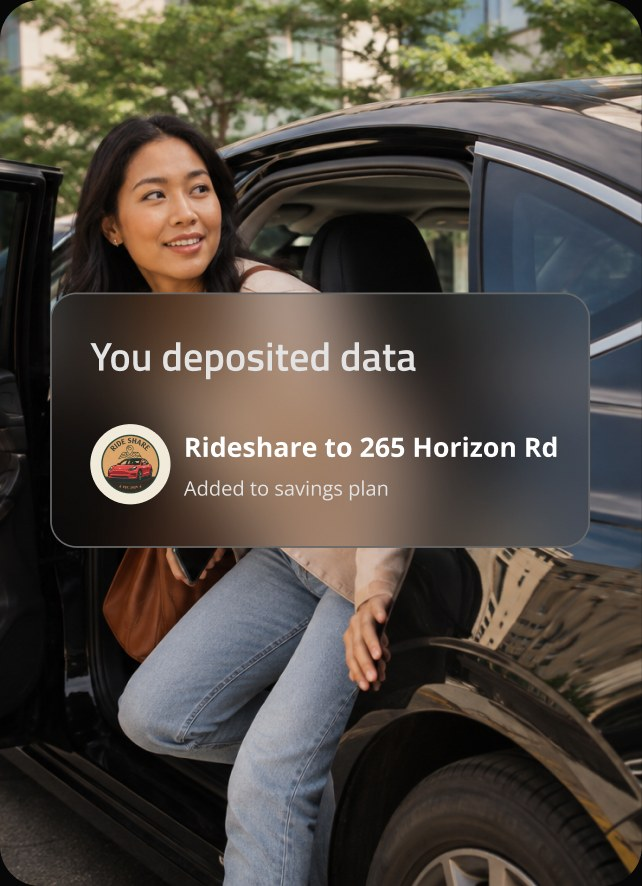
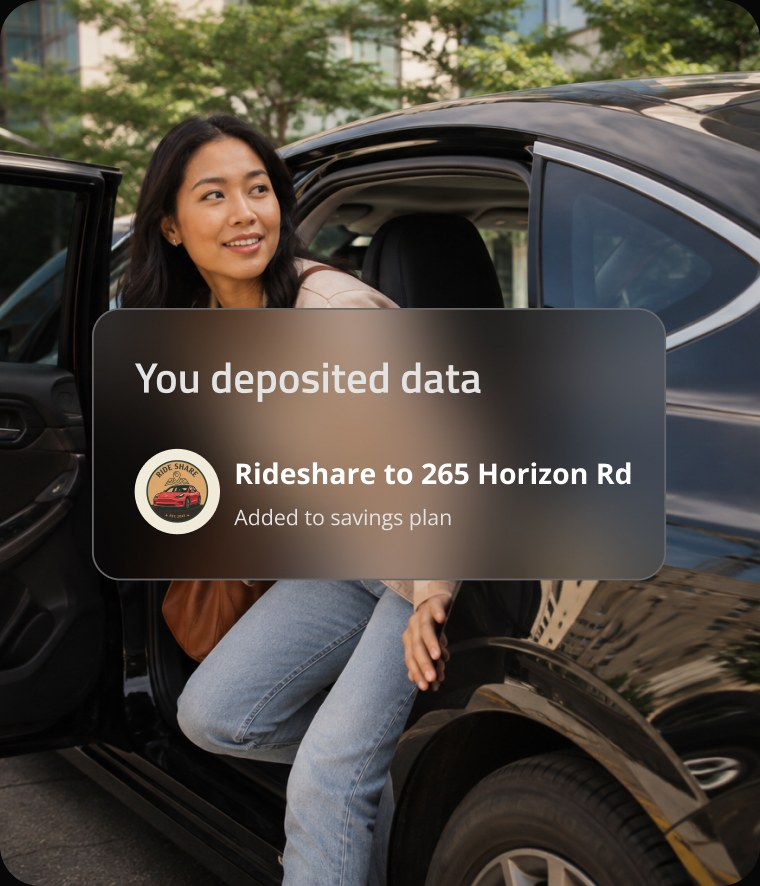
Nav at 1200x84, the ten-question FAQ, and four equal how-it-works cards
Nav, from Figma 3157-67646: 1200x84, padded 16 all round but 24 on the left
where the logo sits, a solid #8b8b8b hairline rather than a faded one, and the
two dividers given their own colours — the logo's is #999 at .4, the one
before the buttons white at .3. Its wordmark reads "DrumWave" as set type;
the design's vector logotype spells "dWallet.", so that frame is deliberately
diverged from. Also fixes a clipped CTA on phones: the nav's content is wider
than 94vw at 375px, so the label was cut mid-word. Predates this change.

FAQ, from Figma 3340-73781: ten questions with their answers, replacing five.
Only three carried over. The row that read "Is a Data Savings Account a bank
account?" was answering a different question — its copy describes a dWallet,
which is what the new design attaches it to.

The accordion works now. That was left undone last time because the shut rows
had no copy, so a working "+" would have opened onto nothing. Click or
Enter/Space toggles, rows open independently as the design shows them, and
aria-expanded tracks. Answers run to one, two or three paragraphs.

Cards, from Figma 3265-80136: all four are 380 wide with even 52.667 gaps, so
last round's odd-one-out is gone — and with it the negative margin, the width
override, the separate copy width and the resets in two media queries. Cards
1-3 re-exported at the new width rather than being stretched from 320.

diff --git a/index.html b/index.html
@@ -63,24 +63,26 @@ button{font:inherit;color:inherit;background:none;border:0;cursor:pointer}
    10px blur, 1px hairline at 30% grey. Type is Titillium 18 throughout. */
 .nav{
   position:fixed;top:12px;left:50%;transform:translateX(-50%);z-index:50;
-  width:min(1058px,94vw);height:70px;padding:10px 24px;
+  /* Figma 3157-67646: 1200 x 84, padded 16 all round but 24 on the left where the
+     logo sits, and a solid #8b8b8b hairline rather than a faded one */
+  width:min(1200px,94vw);height:84px;padding:16px 16px 16px 24px;
   display:flex;align-items:center;gap:40px;
-  border:1px solid rgba(139,139,139,.3);border-radius:100px;
+  border:1px solid #8B8B8B;border-radius:100px;
   background:rgba(7,7,7,.7);backdrop-filter:blur(10px);-webkit-backdrop-filter:blur(10px);
   font-family:'Titillium Web',system-ui,sans-serif;font-size:18px;line-height:1;
 }
 .nav .logo{display:flex;align-items:center;gap:24px;margin-right:auto}
 .nav .logo .mark{width:36px;height:36px;display:block;object-fit:contain;flex:none}
-.nav .logo .rule{width:1px;height:35px;background:rgba(243,242,238,.3);flex:none}
-.nav .logo b{font-weight:600;font-size:32px;letter-spacing:-.01em}
+.nav .logo .rule{width:1px;height:35px;background:rgba(153,153,153,.4);flex:none}
+.nav .logo .wordmark{font-weight:600;font-size:32px;letter-spacing:-.01em;color:#fff;flex:none}
 .nav .links{display:flex;align-items:center;gap:40px}
 .nav .links a{font-weight:400;color:#fff}
 .nav .links a.cur{font-weight:600}
-.nav .sep{width:1px;height:40.5px;background:rgba(243,242,238,.3);flex:none}
+.nav .sep{width:1px;height:40.5px;background:rgba(255,255,255,.3);flex:none}
 .nav .ctas{display:flex;align-items:center;gap:14px}
 .nav .pill{
   display:inline-flex;align-items:center;justify-content:center;white-space:nowrap;
-  padding:12px 24px;border-radius:500px;border:1px solid #fff;
+  padding:12px 24px;border-radius:500px;border:.911px solid #fff;
   font-weight:400;line-height:24px;color:#fff;transition:background .25s,filter .25s;
 }
 .nav .pill:hover{background:rgba(243,242,238,.12)}
@@ -88,11 +90,11 @@ button{font:inherit;color:inherit;background:none;border:0;cursor:pointer}
 .nav .pill.p{border:1px solid transparent;border-radius:56px;font-weight:600;background:linear-gradient(138.73deg,#4B27FF 1.94%,#0091FF 100.59%)}
 .nav .pill.p:hover{background:linear-gradient(138.73deg,#4B27FF 1.94%,#0091FF 100.59%);filter:brightness(1.12)}
 @media (max-width:900px){
-  .nav{gap:20px;height:56px;padding:8px 16px}
+  .nav{gap:20px;height:64px;padding:8px 12px 8px 16px}
   .nav .links,.nav .sep{display:none}
   .nav .logo{gap:14px}
   .nav .logo .rule{height:28px}
-  .nav .logo b{font-size:22px}
+  .nav .logo .wordmark{font-size:22px}
   .nav .pill{padding:10px 16px;font-size:15px}
   .nav .pill:not(.p){display:none}
 }
@@ -256,19 +258,13 @@ button{font:inherit;color:inherit;background:none;border:0;cursor:pointer}
    The cards are flat exports on purpose: three of the four are single flattened
    images in the design, so their photo crops and panel placement can't be had as
    layers. Taking all four the same way keeps them consistent with each other. */
-.how-steps{position:relative;z-index:2;display:grid;grid-template-columns:repeat(4,1fr);gap:5.518vw;padding:4.581vw 6.247vw 0}
+.how-steps{position:relative;z-index:2;display:grid;grid-template-columns:repeat(4,1fr);gap:2.742vw;padding:4.581vw 6.247vw 0}
 .step{position:relative}
-.step-card{position:relative;width:94.19%;aspect-ratio:320.24/442;overflow:hidden;border-radius:6.25%/4.53%}
-/* Figma 3265-80232: the last card is wider than the other three — 380 against their
-   320 — and it grows leftward into the gap, so its right edge stays on the same 1678
-   measure the row is built on. Its copy shifts with it and keeps the 340 column. */
-.how-steps .step:last-child{margin-left:-2.082vw}
-.how-steps .step:last-child .step-card{width:19.781vw;aspect-ratio:380/442;border-radius:5.27%/4.53%}
-/* the wider card makes its 1fr track grow with it; the copy stays on the 340 column
-   the design keeps it on, so it sits in from the card's right edge */
-.how-steps .step:last-child .step-copy{width:17.699vw}
+/* Figma 3265-80136: four equal 380-wide cards with 52.667 gaps on a 1678 measure.
+   The copy stays on a 340 column, so it sits in from each card's right edge. */
+.step-card{position:relative;width:100%;aspect-ratio:380/442;overflow:hidden;border-radius:5.27%/4.53%}
 .step-card img{display:block;width:100%;height:100%;object-fit:cover}
-.step-copy{margin-top:1.458vw;display:flex;flex-direction:column;gap:.625vw}
+.step-copy{margin-top:1.458vw;display:flex;flex-direction:column;gap:.625vw;width:17.699vw;max-width:100%}
 .step-eyebrow{font-family:'Titillium Web',sans-serif;font-weight:600;font-size:clamp(.65rem,.833vw,1rem);letter-spacing:.1em;line-height:1.1;color:#278EFF;text-transform:uppercase}
 .step-h{font-family:'Titillium Web',sans-serif;font-weight:600;font-size:clamp(1rem,1.249vw,1.5rem);letter-spacing:-.03em;line-height:1.1;color:#fff}
 .step-body{font-family:'Open Sans',sans-serif;font-weight:400;font-size:clamp(.75rem,.729vw,.875rem);line-height:1.4;color:#999}
@@ -293,6 +289,12 @@ button{font:inherit;color:inherit;background:none;border:0;cursor:pointer}
 .faq-row.open .faq-q{color:#fff}
 .faq-row .faq-a{display:none;margin-top:16px;font-family:'Open Sans',sans-serif;font-weight:400;font-size:clamp(.8rem,.729vw,.875rem);line-height:1.4;color:#999}
 .faq-row.open .faq-a{display:block}
+/* several answers run to two or three paragraphs; the design separates them with a
+   blank line, which is a margin here rather than an empty paragraph */
+.faq-row .faq-a p{margin:0 0 1.4em}
+.faq-row .faq-a p:last-child{margin-bottom:0}
+.faq-row{cursor:pointer}
+.faq-row:focus-visible{outline:2px solid #278EFF;outline-offset:3px}
 
 /* Figma 3157-69704: the disclosures block — text at x164 on a 1464 measure, 18px
    at #666, with a rule above it the full width of the footer's columns */
@@ -324,10 +326,7 @@ button{font:inherit;color:inherit;background:none;border:0;cursor:pointer}
 
 @media (max-width:980px){
   .how-steps{grid-template-columns:repeat(2,1fr);gap:4vw}
-  /* stacked, an odd card out would just look ragged */
-  .how-steps .step:last-child{margin-left:0}
-  .how-steps .step:last-child .step-card{width:94.19%;aspect-ratio:320.24/442;border-radius:6.25%/4.53%}
-  .how-steps .step:last-child .step-copy{width:auto}
+  .step-copy{width:auto}
   .how-title{padding-left:4.25vw}
   .faq{flex-direction:column;gap:40px}
   .faq-list{width:100%}
@@ -336,7 +335,7 @@ button{font:inherit;color:inherit;background:none;border:0;cursor:pointer}
 @media (max-width:760px){
   .how-steps{grid-template-columns:1fr;gap:8vw;padding:8vw 8vw 0}
   .how-title{padding-left:8.5vw}
-  .step-card,.how-steps .step:last-child .step-card{width:100%}
+  .step-card{width:100%}
   .step-eyebrow{font-size:.8rem}
   .step-h{font-size:1.35rem}
   .step-body{font-size:.9rem}
@@ -361,6 +360,12 @@ button{font:inherit;color:inherit;background:none;border:0;cursor:pointer}
   .solution-preview .sol-link{left:8vw;top:auto;bottom:17vh;transform:none}
   .solution-preview .sol-card{right:auto;left:8vw;top:auto;bottom:30vh;width:84vw}
 }
+/* On a phone the nav's own content is wider than 94vw — logo, rule, wordmark and a
+   CTA whose label runs to 25 characters — so the CTA's text was being clipped. The
+   logo disc carries the brand on its own down here. */
+@media (max-width:440px){
+  .nav .logo .rule,.nav .logo .wordmark{display:none}
+}
 @media (prefers-reduced-motion:reduce){
   .marker i.pulse{animation:none}
 }
@@ -372,7 +377,7 @@ button{font:inherit;color:inherit;background:none;border:0;cursor:pointer}
   <a class="logo" href="#">
     <img class="mark" src="assets/img/logo.png" alt="" width="36" height="36">
     <span class="rule" aria-hidden="true"></span>
-    <b>dWallet.</b>
+    <b class="wordmark">DrumWave</b>
   </a>
   <nav class="links"><a class="cur" href="#">Personal</a><a href="#">Business</a></nav>
   <span class="sep" aria-hidden="true"></span>
@@ -587,16 +592,94 @@ button{font:inherit;color:inherit;background:none;border:0;cursor:pointer}
       <h2 class="faq-title">Questions? We&rsquo;ve got answers.</h2>
     </div>
     <div class="faq-list">
-      <div class="faq-row open">
+        <div class="faq-row open">
         <div class="faq-text">
-          <p class="faq-q">Is a Data Savings Account a bank account?</p>
-          <p class="faq-a">A dWallet is a data wallet to help you manage the value of your data. It lets you own, save, exchange, invest, and benefit from the value of the data you generate every day. With a dWallet, you can request your data from the companies you interact with, apply for a Data Savings Plan, and use it for personal, professional, and financial reasons, all with a secure way to keep it protected and under your control.</p>
+          <p class="faq-q">What is dWallet?</p>
+          <div class="faq-a">
+          <p>A dWallet is a data wallet to help you manage the value of your data. It lets you own, save, exchange, invest, and benefit from the value of the data you generate every day. With a dWallet, you can request your data from the companies you interact with, apply for a Data Savings Plan, and use it for personal, professional, and financial reasons, all with a secure way to keep it protected and under your control.</p>
+          </div>
         </div><i>&minus;</i>
       </div>
-      <div class="faq-row"><div class="faq-text"><p class="faq-q">What is a Data Savings Plan?</p></div><i>+</i></div>
-      <div class="faq-row"><div class="faq-text"><p class="faq-q">How much is my data worth?</p></div><i>+</i></div>
-      <div class="faq-row"><div class="faq-text"><p class="faq-q">Why would a company pay for something it currently gets free?</p></div><i>+</i></div>
-      <div class="faq-row"><div class="faq-text"><p class="faq-q">Is my data safe with dWallet?</p></div><i>+</i></div>
+      <div class="faq-row">
+        <div class="faq-text">
+          <p class="faq-q">Why do I need a dWallet?</p>
+          <div class="faq-a">
+          <p>The economy is becoming a data economy. Your dWallet gives you a place in it. Think about your money. You keep it in an account you control. You can save, move, invest, spend, or use your money to benefit yourself, your family, and the world around you. Your data should work the same way.</p>
+          <p>Today, your data lives across the cloud, where companies control it and benefit from its value. A dWallet changes that. It puts the data you generate every day back in your hands, so you can own, save, control, and benefit from its value. Your money has a wallet. Now your data does too.</p>
+          </div>
+        </div><i>+</i>
+      </div>
+      <div class="faq-row">
+        <div class="faq-text">
+          <p class="faq-q">What is a data transaction?</p>
+          <div class="faq-a">
+          <p>A data transaction happens whenever you move or put the value of your data to work from your dWallet, just like a money transaction from your bank account.</p>
+          <p>Data transactions use Data Certificates, secure digital records that represent your rights to specific data and allow your dWallet to transact with it.</p>
+          <p>When you wire, withdraw, or pay with money, you make a money transaction. When you request your data from a company and receive a Data Certificate in your wallet, save it in a Data Savings Plan, exchange it, or invest it, you make a data transaction.</p>
+          </div>
+        </div><i>+</i>
+      </div>
+      <div class="faq-row">
+        <div class="faq-text">
+          <p class="faq-q">Who is in control of a data transaction?</p>
+          <div class="faq-a">
+          <p>You are. Your dWallet is non-custodial, which means you start every data transaction. Nothing moves in or out of your wallet without your authorization. Your data never leaves the ecosystem. You decide when and how to license your data, while your dWallet keeps it protected and under your control.</p>
+          </div>
+        </div><i>+</i>
+      </div>
+      <div class="faq-row">
+        <div class="faq-text">
+          <p class="faq-q">What is a Data Savings Plan?</p>
+          <div class="faq-a">
+          <p>A Data Savings Plan (DSP) is a data-backed financial instrument that builds data wealth, as traditional savings plans build wealth from money. With a DSP the data you generate and contribute is owned by you, and you can save, and benefit from the value it generates.</p>
+          <p>The plan defines how data contributions are governed, how they may be used, and how value generated from them is tracked and allocated. Data is treated as an asset that can be saved and managed within a defined financial and governance structure. And in the DSP you set and control preferences so the plan operates under terms you define.</p>
+          </div>
+        </div><i>+</i>
+      </div>
+      <div class="faq-row">
+        <div class="faq-text">
+          <p class="faq-q">How does a Data Savings Plan generate value?</p>
+          <div class="faq-a">
+          <p>A Data Savings Plan (DSP) generates value by allocating your data contributions into monetization use cases, and companies pay to license data. Nothing is allocated without your approval. The value of your data has the potential to grow over time, so the more data you contribute and the earlier you start, the more value you will have.</p>
+          <p>In your DSP, you set up an exit payment account, and the accumulated cash value can be transferred to that account. Alternatively, the DSP can be integrated with other solutions that align with your financial goals, such as investing in education, retirement, or paying down your loans.</p>
+          </div>
+        </div><i>+</i>
+      </div>
+      <div class="faq-row">
+        <div class="faq-text">
+          <p class="faq-q">How much is my data worth?</p>
+          <div class="faq-a">
+          <p>Your data has value. Companies already make money from it, but today, you don&rsquo;t get a share. Data Savings is designed so that a portion of the value your data generates comes back to you.</p>
+          <p>What you can earn depends on owning and saving your data: what you choose to contribute and what you are open to licensing. Value builds from the moment you start saving, so if you have zero data saved, your data is worth zero. Over time, your contributions increase and so does the number of use cases, so the value of your data tends to grow exponentially.</p>
+          </div>
+        </div><i>+</i>
+      </div>
+      <div class="faq-row">
+        <div class="faq-text">
+          <p class="faq-q">Why would a company pay for something it currently gets free?</p>
+          <div class="faq-a">
+          <p>Because it was never free &ndash; you paid for it. The phone, the data plan, the electricity, the time. Companies collect data at no cost to themselves because the cost sits with you.</p>
+          <p>So the real question isn&rsquo;t why a company would pay. It&rsquo;s what it gets in return. On a DSP, the data you choose to contribute is combined with certified data from other participants, which makes all of it more valuable. Better data means higher revenue, lower operating costs, and less compliance risk. And it gives companies something free data never could: a direct, trusted relationship with the people behind the data. That trust comes from being transparent about what&rsquo;s collected and from returning a share of the value to the person who created it.</p>
+          </div>
+        </div><i>+</i>
+      </div>
+      <div class="faq-row">
+        <div class="faq-text">
+          <p class="faq-q">Does DrumWave sell my data?</p>
+          <div class="faq-a">
+          <p>No. Your data stays where it already is. DrumWave never holds your data, only the value it generates, like a bank that holds your money but does not own it.</p>
+          <p>Your Data Savings Plan holds Data Certificates that represent your data and its value. Nothing happens with them without your approval.</p>
+          </div>
+        </div><i>+</i>
+      </div>
+      <div class="faq-row">
+        <div class="faq-text">
+          <p class="faq-q">Is my data safe?</p>
+          <div class="faq-a">
+          <p>Yes. Your dWallet is designed with banking-level security to keep your data protected and under your control. We treat your data with the same care and security banks use to protect your money. Because your dWallet is non-custodial, you don&rsquo;t hand control of your data to someone else. You decide what comes into your wallet, what goes out, and when your data is used. Your data stays yours. Protected like your money. Controlled by you.</p>
+          </div>
+        </div><i>+</i>
+      </div>
     </div>
   </div>
 
@@ -1114,6 +1197,25 @@ button{font:inherit;color:inherit;background:none;border:0;cursor:pointer}
     rise(step.querySelector('.step-card'), step, {duration:.6, delay:i*.08});
     rise(step.querySelector('.step-copy'), step, {duration:.6, delay:i*.08 + .12});
   });
+  // Every row carries an answer now, so the +/- is a real control rather than a
+  // painted-on affordance. Rows open independently — the design shows them all open
+  // at once — and the first is open on arrival.
+  $$('#how .faq-row').forEach(row => {
+    const mark = row.querySelector('i');
+    row.setAttribute('role', 'button');
+    row.setAttribute('tabindex', '0');
+    row.setAttribute('aria-expanded', row.classList.contains('open') ? 'true' : 'false');
+    const toggle = () => {
+      const open = row.classList.toggle('open');
+      row.setAttribute('aria-expanded', open ? 'true' : 'false');
+      mark.innerHTML = open ? '&minus;' : '+';
+    };
+    row.addEventListener('click', toggle);
+    row.addEventListener('keydown', e => {
+      if(e.key === 'Enter' || e.key === ' ' || e.key === 'Spacebar'){ e.preventDefault(); toggle(); }
+    });
+  });
+
   rise('#how .faq-head', '#how .faq');
   rise($$('#how .faq-row'), '#how .faq', {duration:.5, stagger:.07});
   rise('#how .site-footer > *', '#how .site-footer', {duration:.5, stagger:.08});
